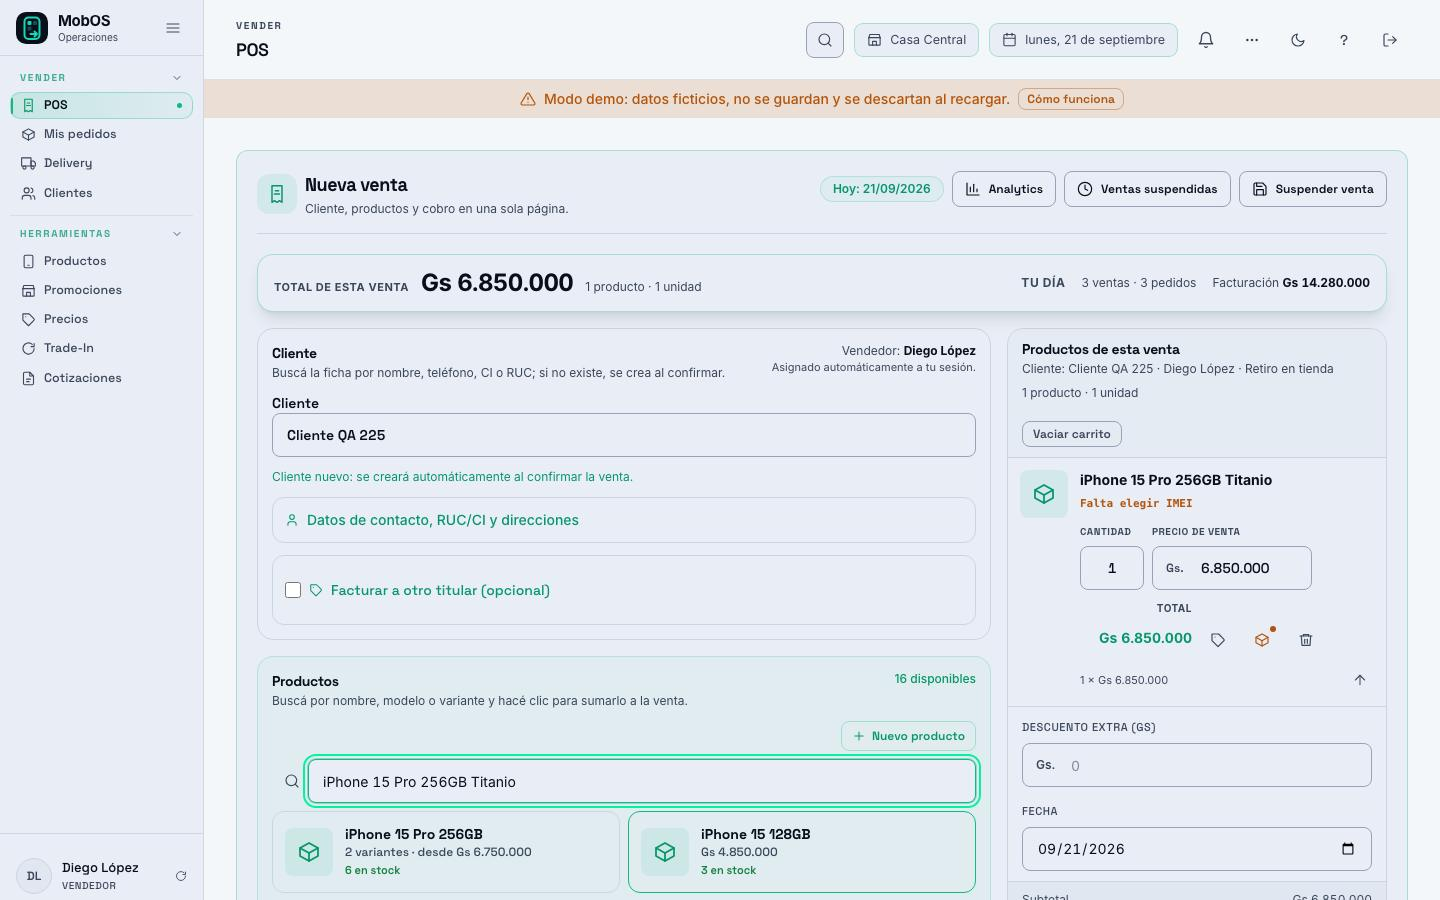
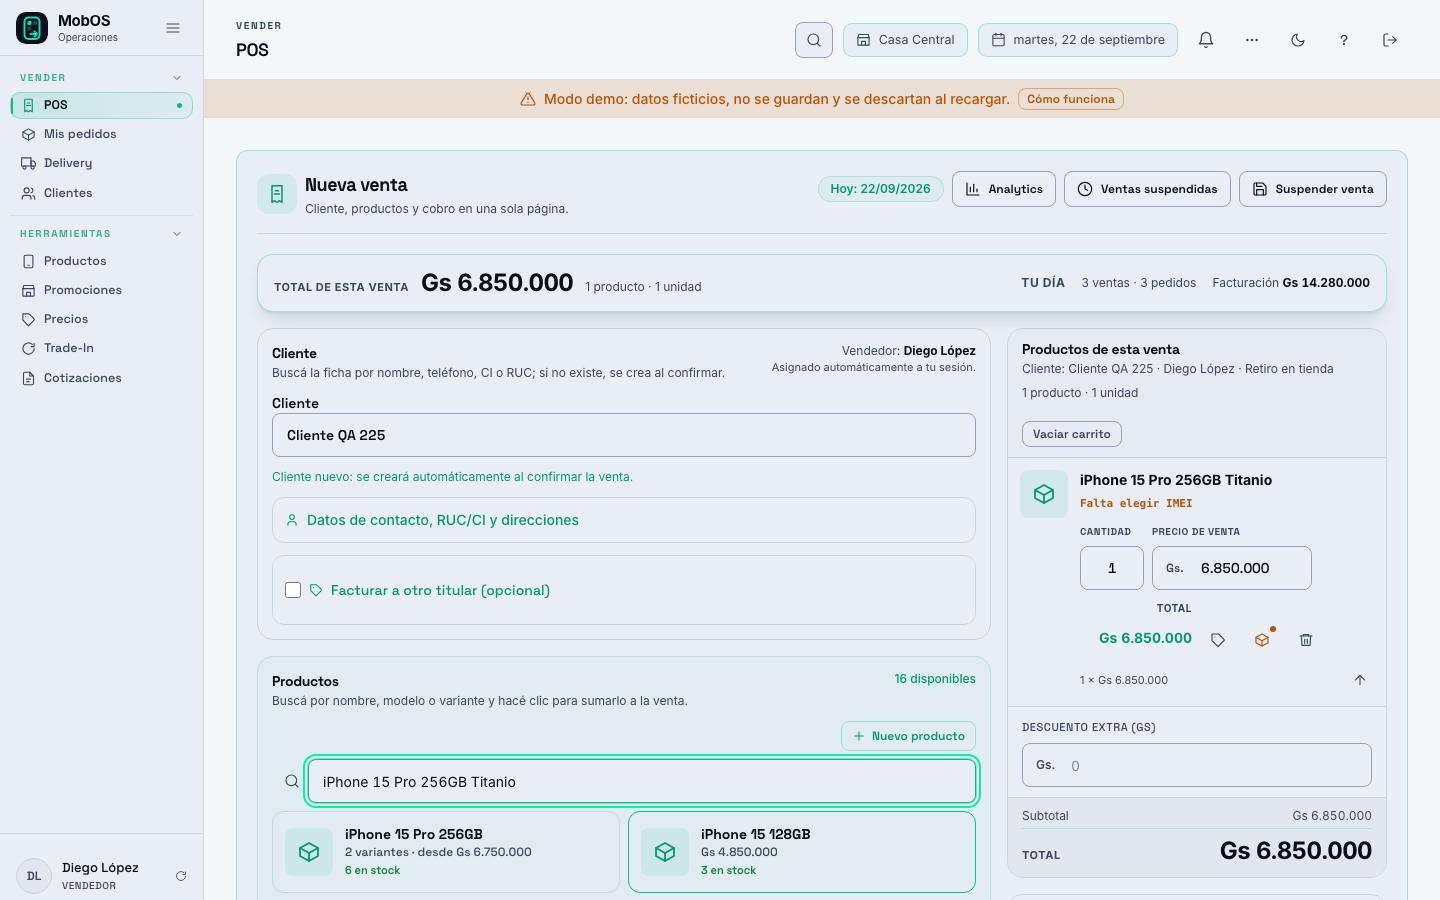
feat(pos): la venta se carga siempre con la fecha del día (#229)
Se quita el campo «Fecha» del panel Productos de esta venta (sin input ni
label): el registro sigue guardando la fecha actual. Capturas del carrito
colapsado/expandido actualizadas y e2e del flujo de venta en verde.

Refs #229 #225

Changed region(s): [[0.6875, 0.9022, 0.9688, 1.0], [0.5625, 0.0311, 0.75, 0.0622], [0.5625, 0.1867, 0.625, 0.2178]]

diff --git a/src/components/ventas/venta/PasoCarrito.jsx b/src/components/ventas/venta/PasoCarrito.jsx
@@ -124,16 +124,7 @@ export default function PasoCarrito({
           )}
         </div>
 
-        <div>
-          <Label htmlFor="fecha">Fecha</Label>
-          <Input
-            id="fecha"
-            type="date"
-            value={f.fecha}
-            onChange={e => setF(s => ({ ...s, fecha: e.target.value, fechaManual: true }))}
-          />
-        </div>
-
+        {/* Fecha: la venta siempre se registra con la fecha del día (#229). */}
         {!esDemo && !puedeDescontar && montoDescuento > 0 && (
           <AutorizacionDescuento
             monto={montoDescuento}
